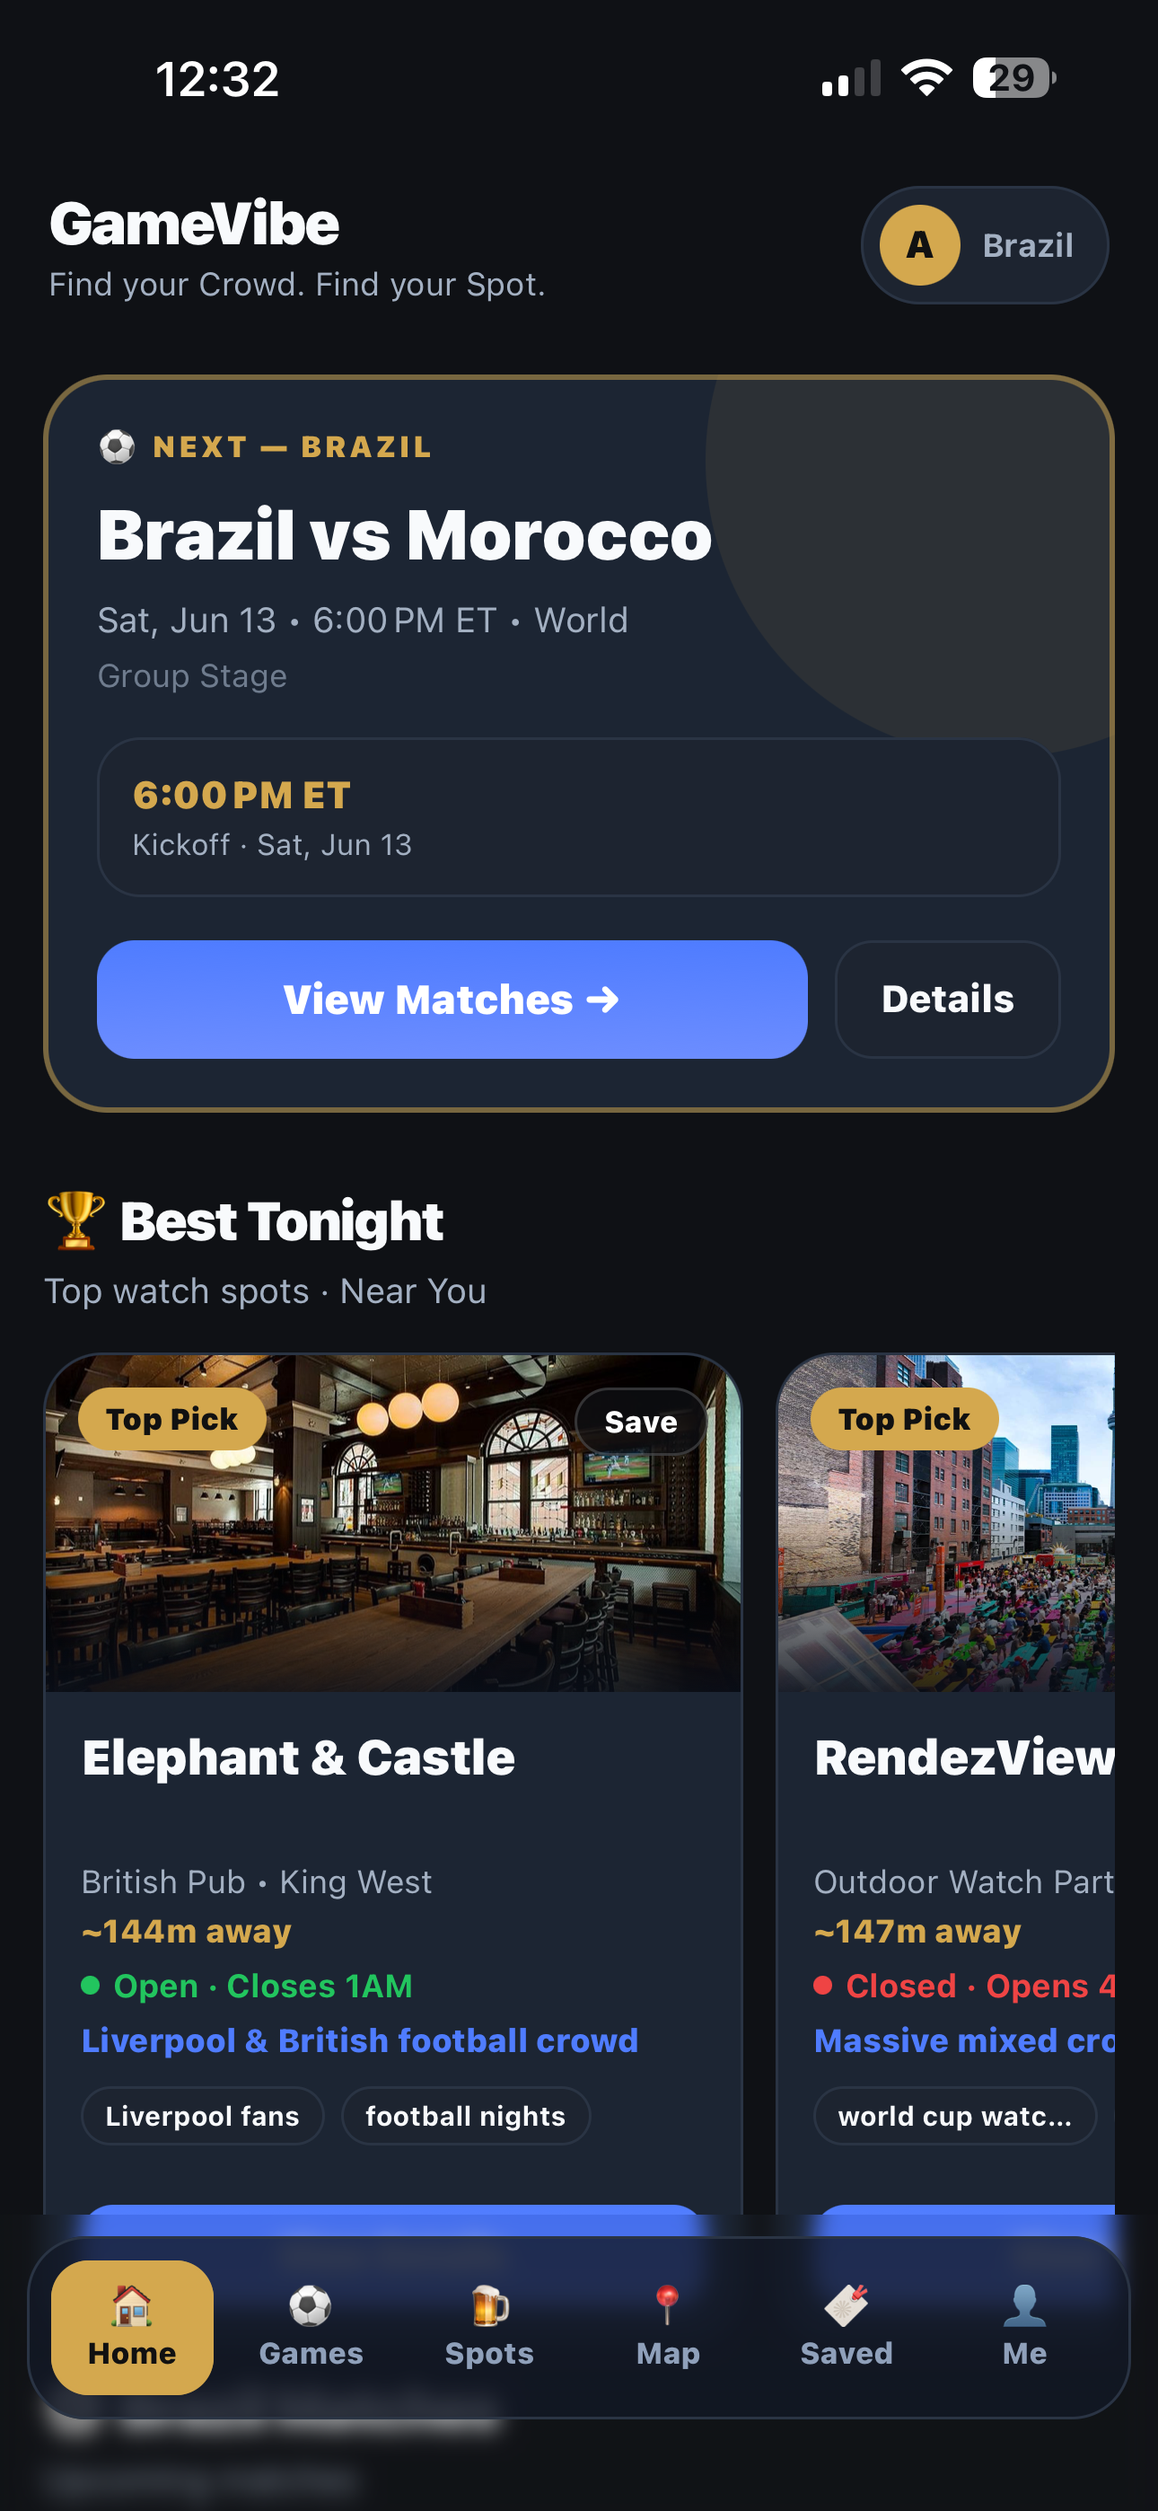
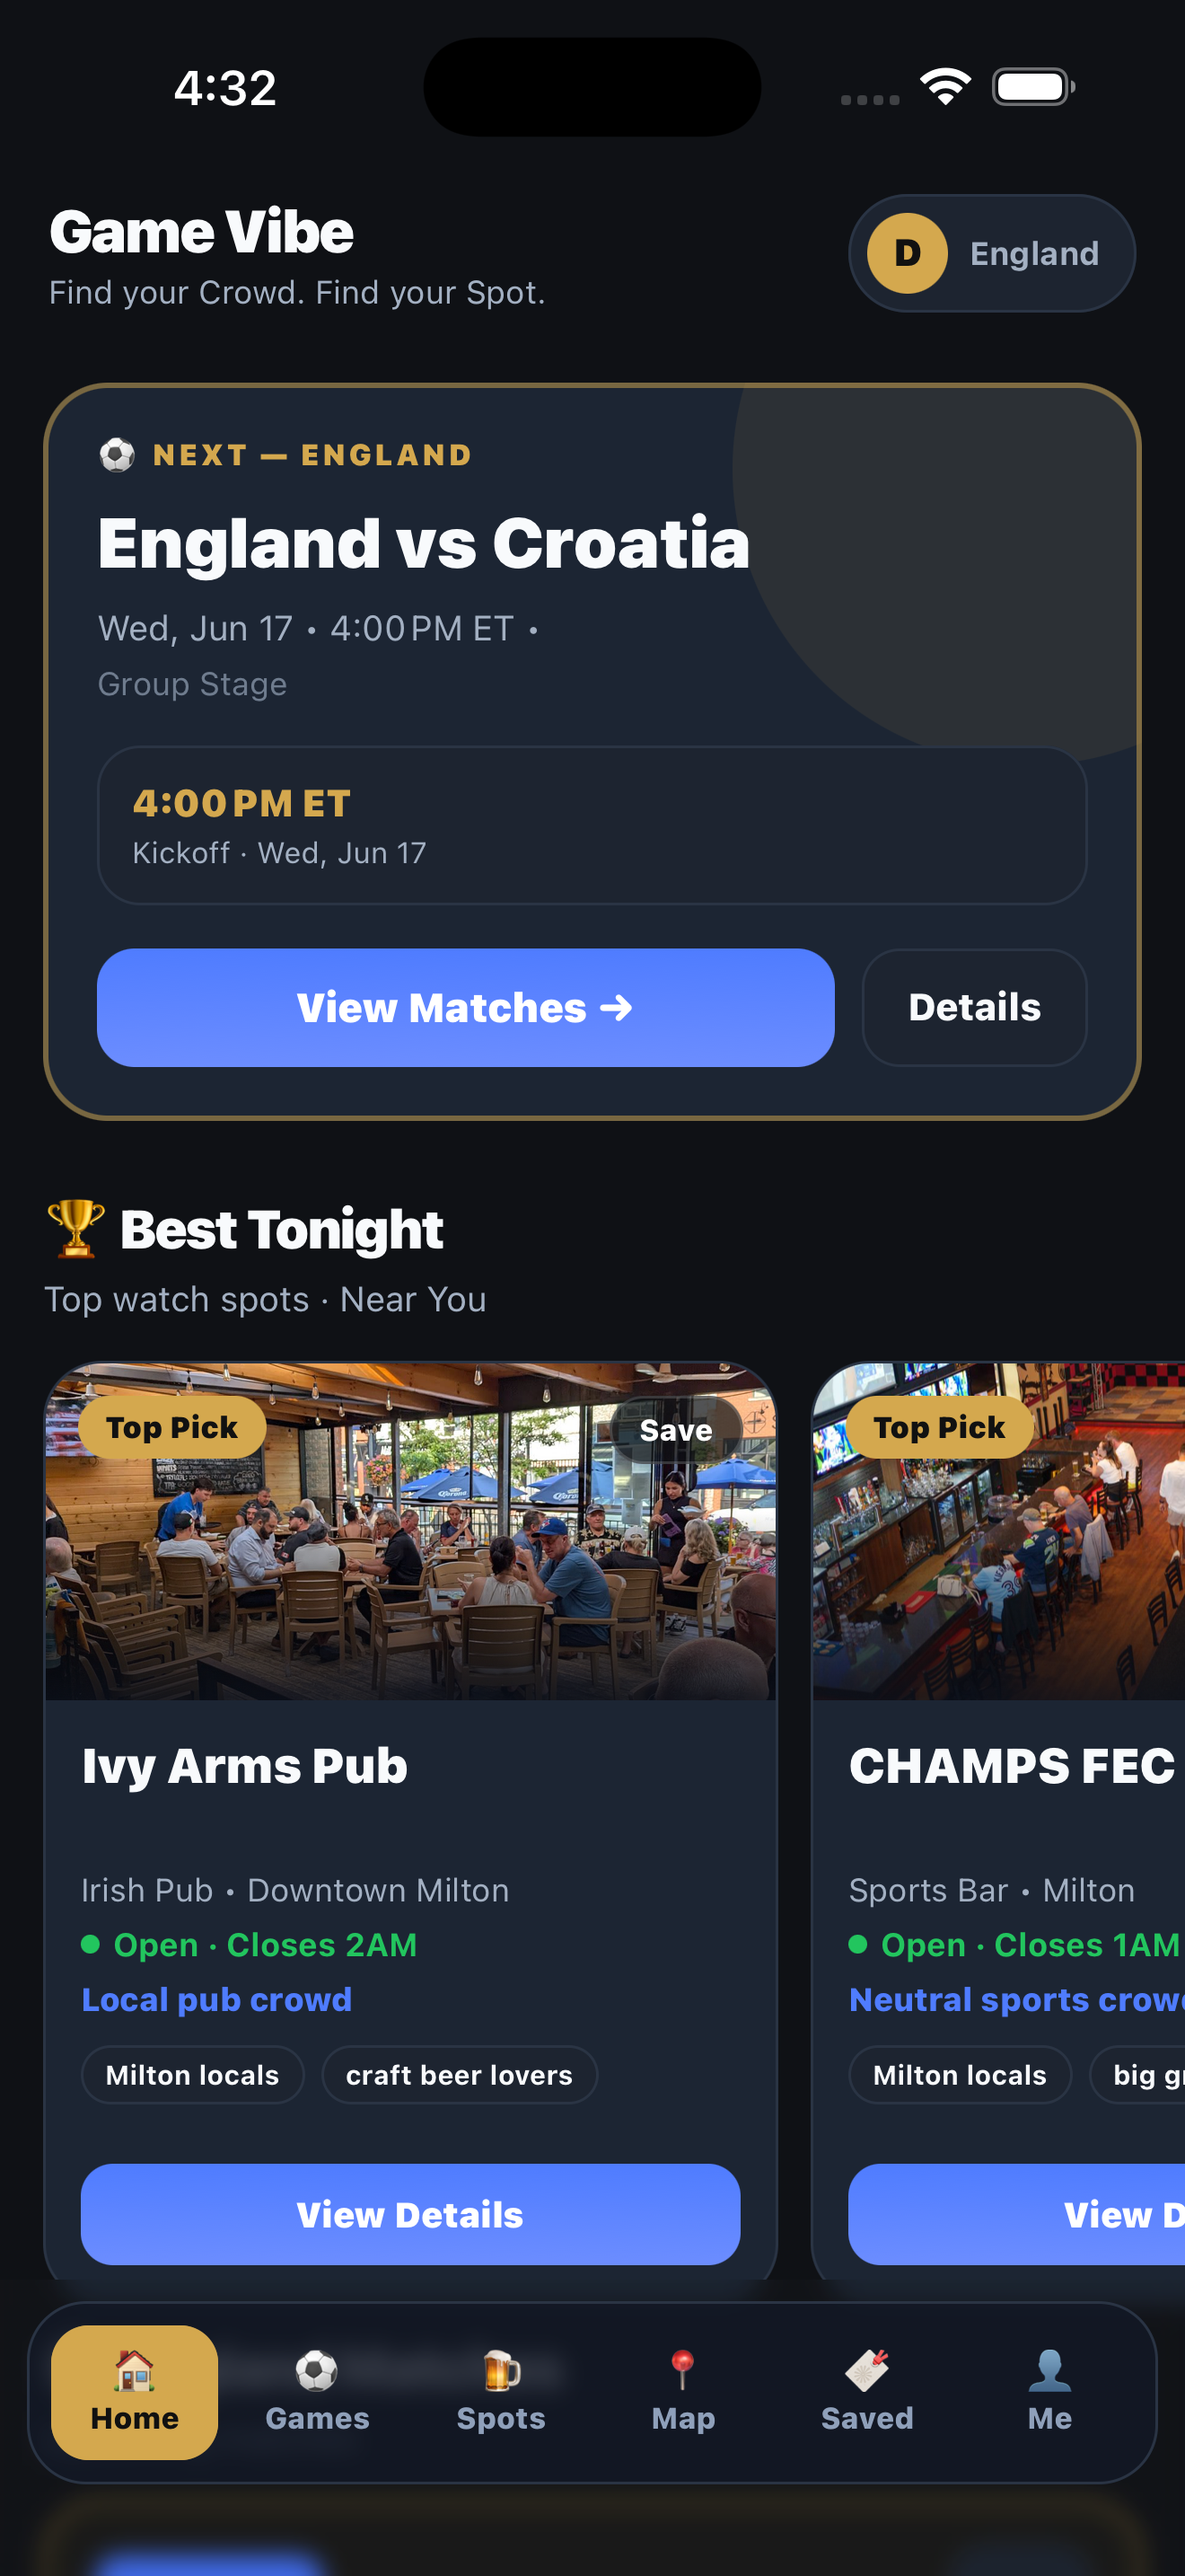
feat: new GameVibe screenshots

diff --git a/src/Portfolio.jsx b/src/Portfolio.jsx
@@ -931,9 +931,10 @@ const featuredProject = {
   num: '01',
   title: 'GameVibe',
   tagline: 'Find your Crowd. Find your Spot.',
-  desc: 'A full-stack mobile app that helps fans find the best spots to watch World Cup 2026 matches in Toronto. Features real-time venue discovery, geolocation, crowd-type matching, interactive map, saved spots, and team-aware match scheduling.',
+  desc: 'A free iOS app for football fans in the GTA. Shows 90+ bars and pubs across Toronto, Mississauga, Brampton, and beyond — sorted by crowd, vibe, and neighbourhood — so you always know the right place to watch every match. Set your team, find your bar, get directions in one tap. Live scores for all 104 World Cup 2026 matches included.',
   tags: ['React Native', 'Firebase', 'Geolocation', 'Maps API', 'UX Design'],
   images: ['/images/gamevibe-1.PNG', '/images/gamevibe-2.PNG', '/images/gamevibe-3.PNG'],
+  appStore: 'https://apps.apple.com/app/gamevibe',
   href: 'https://github.com/andrewomm',
 }
 
@@ -1279,9 +1280,14 @@ export default function Portfolio() {
               <div className="project-tags">
                 {featuredProject.tags.map(t => <span className="tag" key={t}>{t}</span>)}
               </div>
-              <a href={featuredProject.href} target="_blank" rel="noopener noreferrer" className="project-link">
-                View on GitHub <ArrowIcon />
-              </a>
+              <div style={{ display: 'flex', gap: '1.2rem', flexWrap: 'wrap', alignItems: 'center' }}>
+                <a href={featuredProject.appStore} target="_blank" rel="noopener noreferrer" className="project-link" style={{ color: 'var(--white)', fontWeight: 500 }}>
+                  App Store ↗
+                </a>
+                <a href={featuredProject.href} target="_blank" rel="noopener noreferrer" className="project-link">
+                  GitHub <ArrowIcon />
+                </a>
+              </div>
             </div>
           </div>
 
